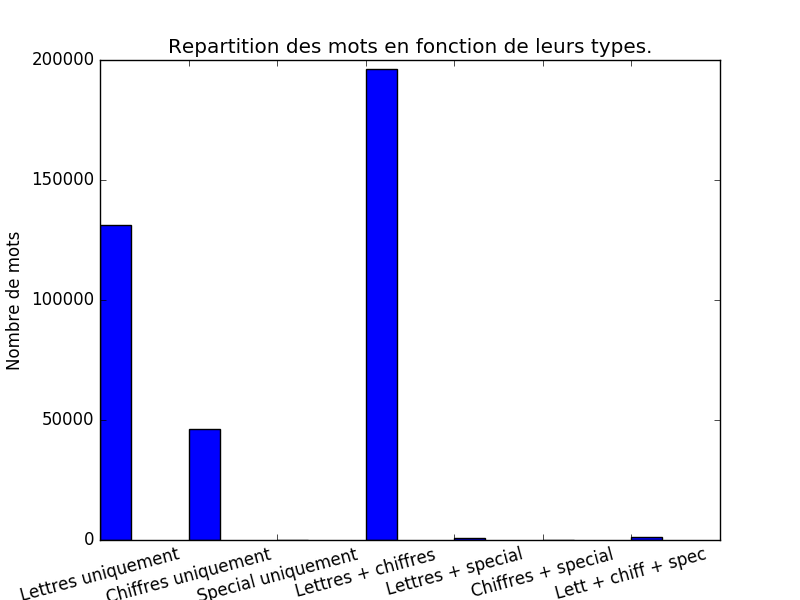
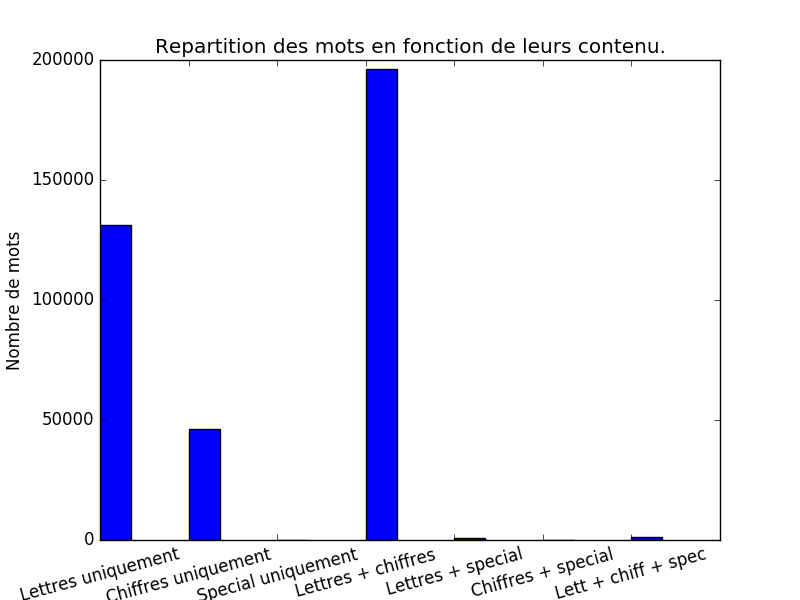
Ajout d'un deuxième graph et corrections

Changed region(s): [[0.1875, 0.06, 0.8438, 0.09]]

diff --git a/resultat/375K.html b/resultat/375K.html
@@ -11,8 +11,8 @@
 <tr> <td> Lettres + special   :  </td><td>688</td> </tr>
 <tr> <td> Chiffres + special  :  </td><td>61</td> </tr>
 <tr> <td> Lett + chiff + spec :  </td><td>1085</td> </tr>
-<tr> <td colspan='2'> Longueur des mots : </td><td>
 </table>
+<h1 style="text-align:center;"> Graphiques</h1>
 <img src="../graph/tableLongueur375K.png" style="display:block;margin: auto;width: 60%;border: 3px solid black;padding: 10px;">
 <img src="../graph/tableType375K.png" style="display:block;margin: auto;width: 60%;border: 3px solid black;padding: 10px;">
 </body></html>

diff --git a/resultat/59K.html b/resultat/59K.html
@@ -11,8 +11,8 @@
 <tr> <td> Lettres + special   :  </td><td>428</td> </tr>
 <tr> <td> Chiffres + special  :  </td><td>9</td> </tr>
 <tr> <td> Lett + chiff + spec :  </td><td>71</td> </tr>
-<tr> <td colspan='2'> Longueur des mots : </td><td>
 </table>
+<h1 style="text-align:center;"> Graphiques</h1>
 <img src="../graph/tableLongueur59K.png" style="display:block;margin: auto;width: 60%;border: 3px solid black;padding: 10px;">
 <img src="../graph/tableType59K.png" style="display:block;margin: auto;width: 60%;border: 3px solid black;padding: 10px;">
 </body></html>

diff --git a/parser.py b/parser.py
@@ -147,10 +147,11 @@ def printHTML(longueurTotale,
 	html = html + "<tr> <td> Lettres + special   :  </td><td>"  + str(lettresEtSpecial) +"</td> </tr>\n"
 	html = html + "<tr> <td> Chiffres + special  :  </td><td>"  + str(chiffresEtSpecial) +"</td> </tr>\n"
 	html = html + "<tr> <td> Lett + chiff + spec :  </td><td>"  + str(lettresEtChiffresEtSpecial) +"</td> </tr>\n"
-	html = html + "<tr> <td colspan='2'> Longueur des mots : </td><td>\n"
 	html = html + "</table>\n"
 
+	html = html + "<h1 style=\"text-align:center;\"> Graphiques</h1>\n"
 
+	# ------------  GRAPH LONGUEUR MOT -------------
 	nombre =[]
 	longueur =[]
 	for i in range(len(longueurMots)):	
@@ -167,6 +168,7 @@ def printHTML(longueurTotale,
 
 	html = html + "<img src=\"../graph/tableLongueur"+ os.path.basename(sys.argv[-1]).split('.')[0] +".png\" style=\"display:block;margin: auto;width: 60%;border: 3px solid black;padding: 10px;\">\n"
 
+	# ------------  GRAPH CONTENU DES MOTS -------------
 	nombre = [motsLettres, motsChiffre, motsSpecial, lettresEtChiffres, lettresEtSpecial, chiffresEtSpecial, lettresEtChiffresEtSpecial]
 	type_ = ["Lettres uniquement", "Chiffres uniquement", "Special uniquement", "Lettres + chiffres", "Lettres + special", "Chiffres + special", "Lett + chiff + spec"]
 	index = np.arange(7)
@@ -175,7 +177,7 @@ def printHTML(longueurTotale,
 	plt.xlabel('Type')
 	plt.xticks(index, type_, rotation=15)
 	plt.ylabel('Nombre de mots')
-	plt.title('Repartition des mots en fonction de leurs types.')
+	plt.title('Repartition des mots en fonction de leurs contenu.')
 	fig.savefig('graph/tableType'+ os.path.basename(sys.argv[-1]).split('.')[0] +'.png')
 	html = html + "<img src=\"../graph/tableType"+ os.path.basename(sys.argv[-1]).split('.')[0] +".png\" style=\"display:block;margin: auto;width: 60%;border: 3px solid black;padding: 10px;\">\n"
 	html = html + "</body></html>\n"
@@ -183,7 +185,7 @@ def printHTML(longueurTotale,
 	hs.write(html)
 	
 	print html
-	webbrowser.open('file://' + os.path.realpath("resultat/"+os.path.basename(sys.argv[-1]).split('.')[0]+".html"))
+	#webbrowser.open('file://' + os.path.realpath("resultat/"+os.path.basename(sys.argv[-1]).split('.')[0]+".html"))
 
 
 if __name__ == "__main__":
